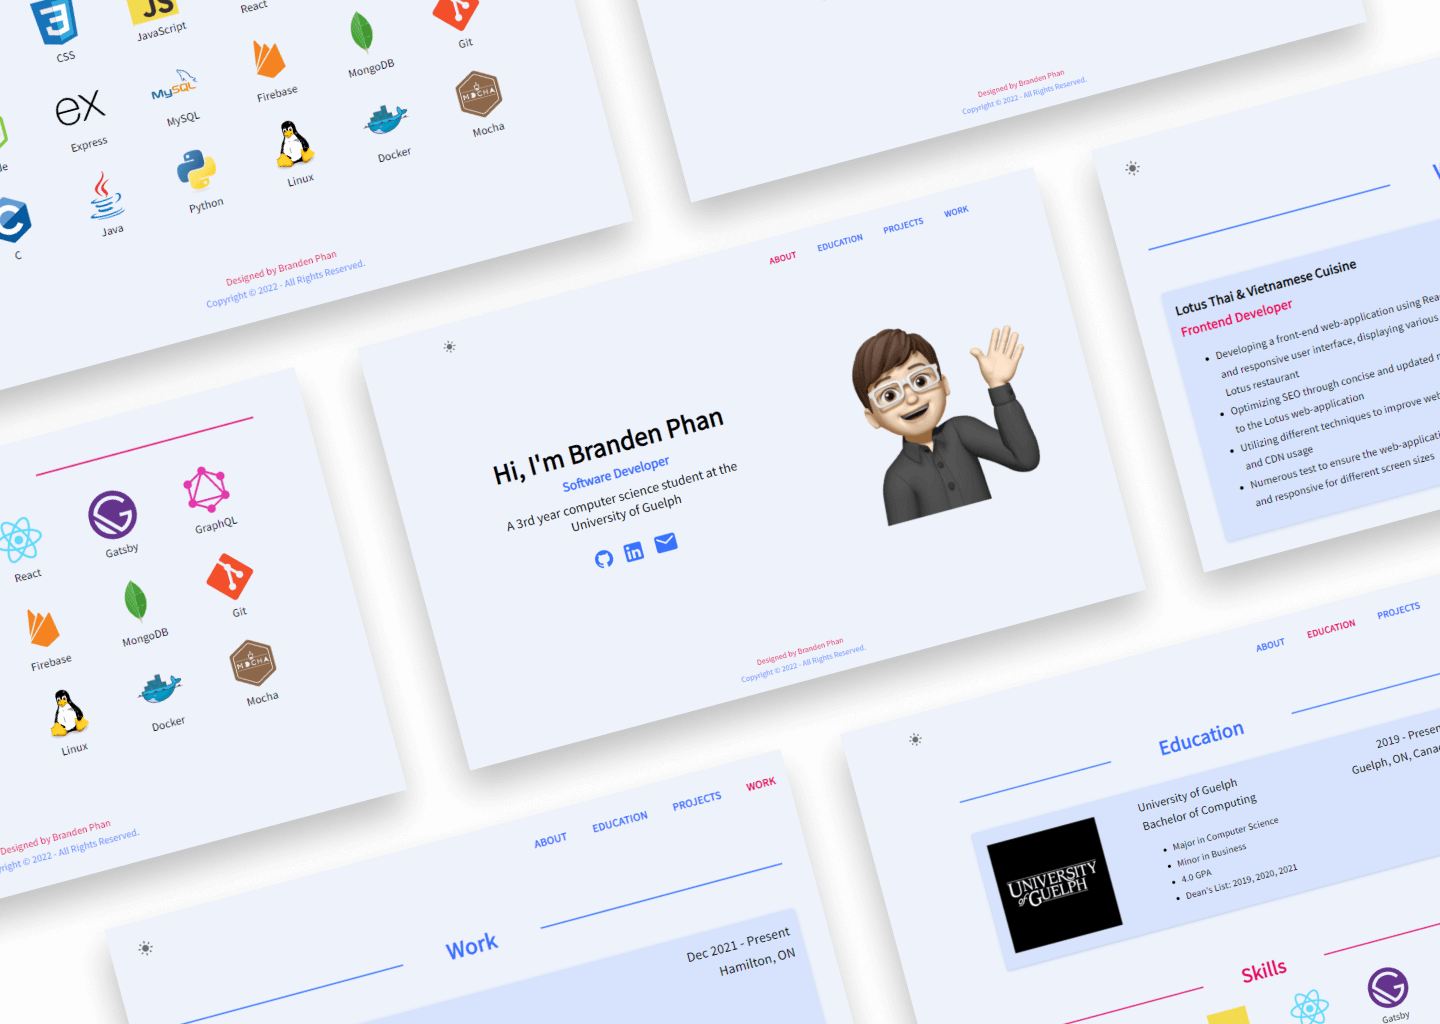
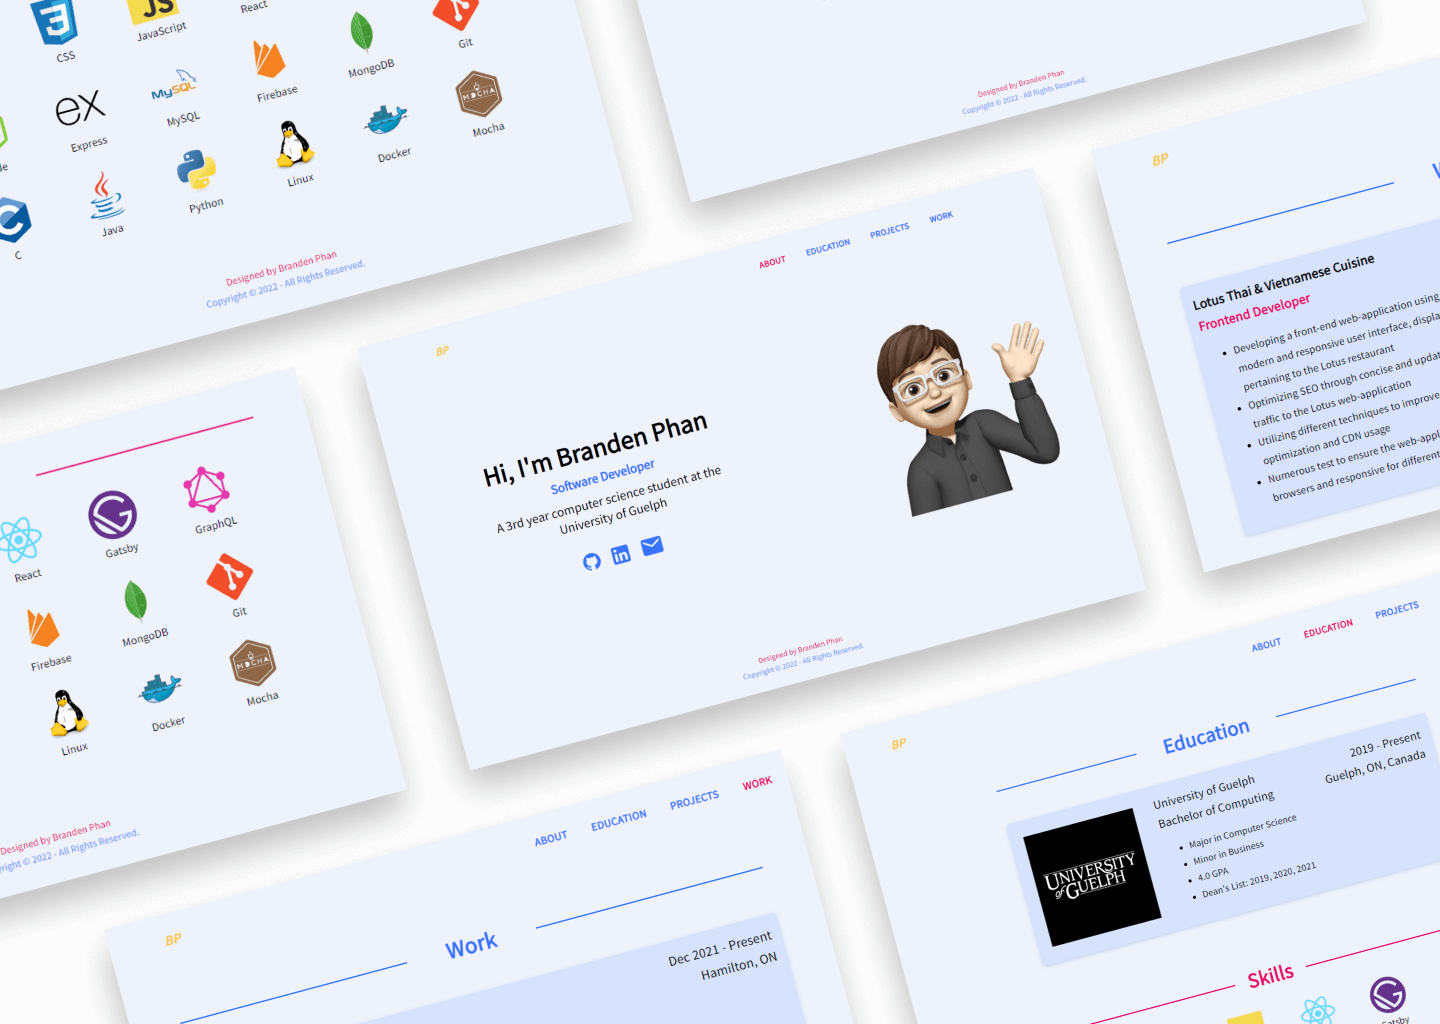
Finished portfolio temporarily

diff --git a/src/components/NavBar.js b/src/components/NavBar.js
@@ -1,7 +1,6 @@
 import React from "react";
 import { Box, Toolbar, AppBar, Button, IconButton, Menu, MenuItem } from "@mui/material";
 import MenuIcon from "@mui/icons-material/Menu";
-import LightModeIcon from '@mui/icons-material/LightMode';
 import { useLocation } from "@reach/router";
 import { navigate } from "gatsby";
 import "@fontsource/source-sans-pro";
@@ -36,9 +35,9 @@ export default function NavBar() {
                     <AppBar position="static" color="transparent" sx={{boxShadow: "none"}}>
                         <Toolbar>
                             <div style={{marginLeft: navBarMarginBreakpoint(width)}}>
-                                <IconButton sx={{transition: "0.3s", "&:hover": {color: "black"}}}>
-                                    <LightModeIcon />
-                                </IconButton>
+                                <Button onClick={() => {navigate("/")}} sx={{marginRight: "2%", paddingRight: "1%", paddingLeft: "1%", fontFamily: "Source Sans Pro", fontSize: "20px", color: "#FBC740"}}>
+                                    <b><i>BP</i></b>
+                                </Button>
                             </div>
 
                             <div style={{width: navBarWidthBreakpoint(width), display: "flex", justifyContent: "flex-end"}}>
@@ -62,9 +61,9 @@ export default function NavBar() {
                 <Box sx={{flexGrow: 1, position: "absolute", top: "0", left: "0", width: "100%"}}>
                     <AppBar position="static" sx={{ background: "transparent", boxShadow: "none" }}>
                         <Toolbar sx={{marginTop: "2%"}}>
-                            <IconButton sx={{"&:hover": {color: "black"}, marginLeft: "2%"}}>
-                                <LightModeIcon style={{fontSize: "35px"}} />
-                            </IconButton>
+                            <Button onClick={() => {navigate("/")}} sx={{marginRight: "2%", paddingRight: "1%", paddingLeft: "1%", fontFamily: "Source Sans Pro", fontSize: "20px", color: "#FBC740"}}>
+                                <b><i>BP</i></b>
+                            </Button>
                             <IconButton sx={{ position: "absolute", right: "0", marginRight: "3%"}}
                                 onClick={handleClick}
                                 aria-label="MenuButton"
@@ -142,7 +141,7 @@ const ButtonComponent = ({navigate, buttonName, onClick}) => {
                     <b>{buttonName}</b>
                 </Button>
             ) : (
-                <Button onClick={onClick} sx={[{marginRight: "2%", paddingRight: "1%", paddingLeft: "1%", fontFamily: "Source Sans Pro", fontSize: "16px", "&:hover": {borderBottom: "2px solid", borderRadius: "0"}, color: "#3672FF"}]}>
+                <Button onClick={onClick} sx={{marginRight: "2%", paddingRight: "1%", paddingLeft: "1%", fontFamily: "Source Sans Pro", fontSize: "16px", "&:hover": {borderBottom: "2px solid", borderRadius: "0"}, color: "#3672FF"}}>
                     <b>{buttonName}</b>
                 </Button>
             )}

diff --git a/src/pages/404.js b/src/pages/404.js
@@ -1,13 +1,52 @@
 import * as React from "react"
 import Layout from "../components/Layout"
 import NavBar from "../components/NavBar"
+import { Grid, Typography, Button } from "@mui/material"
+import { navigate } from "gatsby"
+import "@fontsource/source-sans-pro";
+import CloseIcon from '@mui/icons-material/Close';
 
 const NotFoundPage = () => {
+    const [width, setWindowWidth] = React.useState(0);
+    const updateDimensions = () => {
+        setWindowWidth(window.innerWidth);
+    }
+    React.useEffect(() => {
+        updateDimensions();
+        window.addEventListener("resize", updateDimensions);
+        return () => {
+            window.removeEventListener("resize", updateDimensions);
+        };
+    }, []);
+
     return (
 		<Layout>
 			<div style={{minHeight: "100vh"}}>
 				<NavBar />
-				<p>hi</p>
+
+				{width > 0 && (
+					<>
+						{width > 700 ? (<Grid item xs={12}><br /><br /><br /><br /><br /><br /><br /><br /></Grid>) : (<Grid item xs={12}><br /><br /><br /><br /><br /><br /></Grid>)}
+
+						<Grid container sx={{position: "absolute", top: "35vh"}}>
+							<Grid item xs={12} sx={{display: "flex", justifyContent: "center"}}>
+								<CloseIcon sx={{fontSize: "100px", color: "#E60268"}} />
+							</Grid>
+							<Grid item xs={12}>
+								<br />
+							</Grid>
+							<Grid item xs={12} sx={{display: "flex", justifyContent: "center"}}>
+								<Typography variant="h5" sx={{fontFamily: "Source Sans Pro"}}>Sorry this page does not exist!</Typography>
+							</Grid>
+							<Grid item xs={12}><br /></Grid>
+							<Grid item xs={12} sx={{display: "flex", justifyContent: "center"}}>
+								<Button onClick={() => {navigate("/")}} sx={{color: "#3672FF", fontFamily: "Source Sans Pro", fontSize: "18px"}}><b>Back to Home Page</b></Button>
+							</Grid>
+						</Grid>
+					</>
+				)}
+				
+
 			</div>
 		</Layout>
     )
